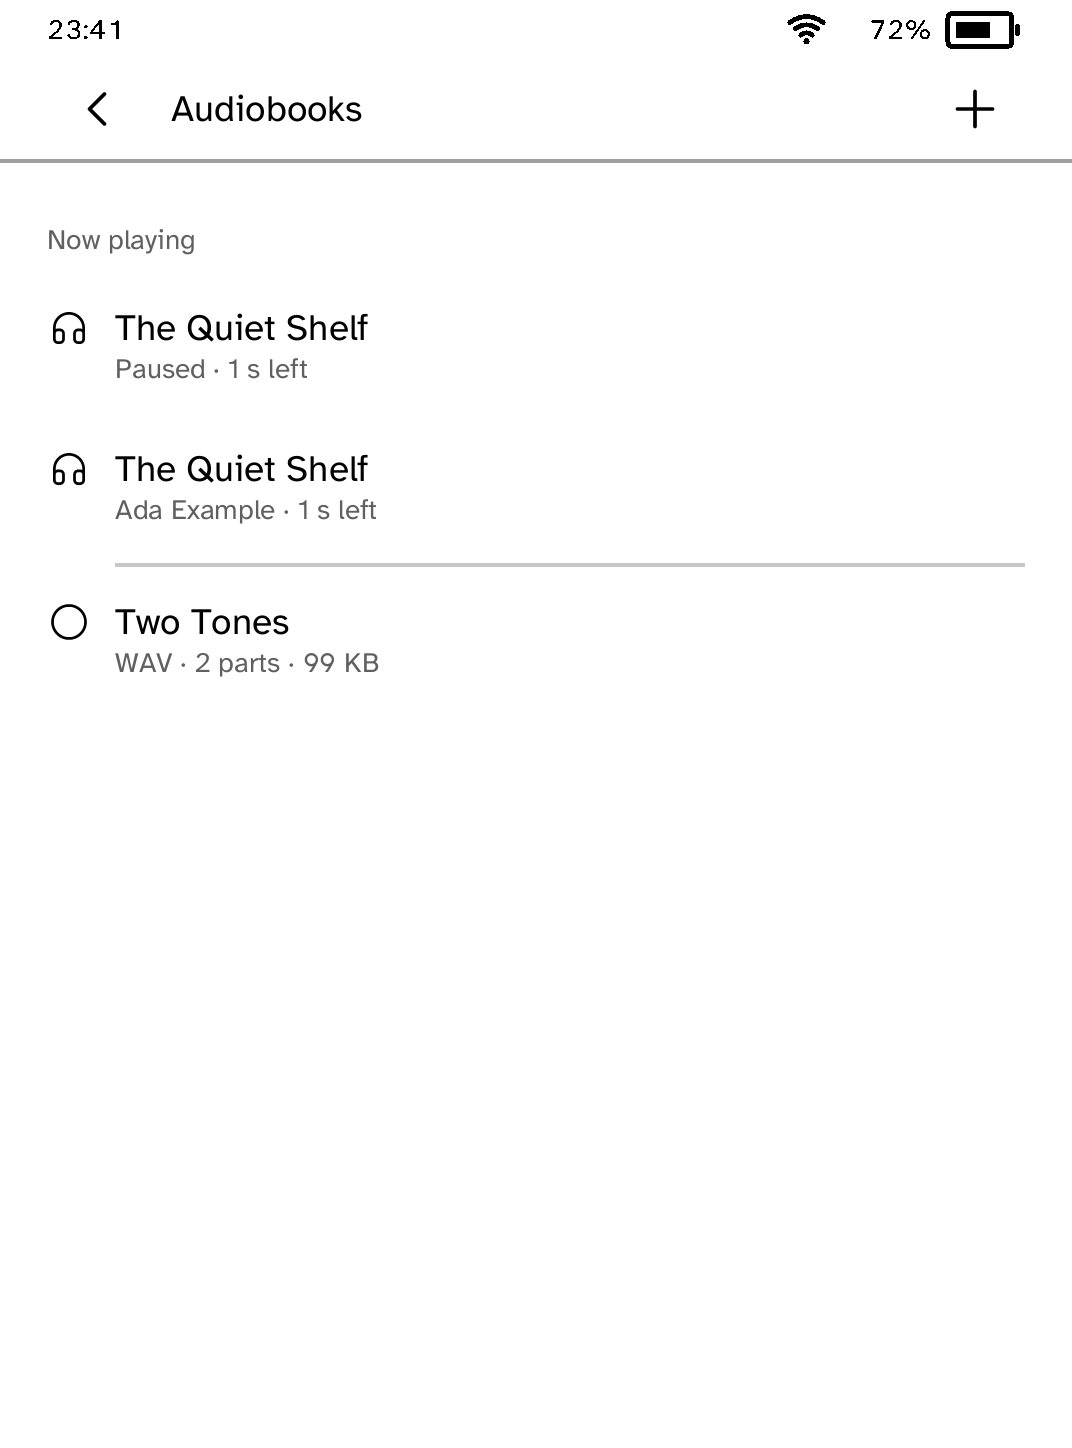
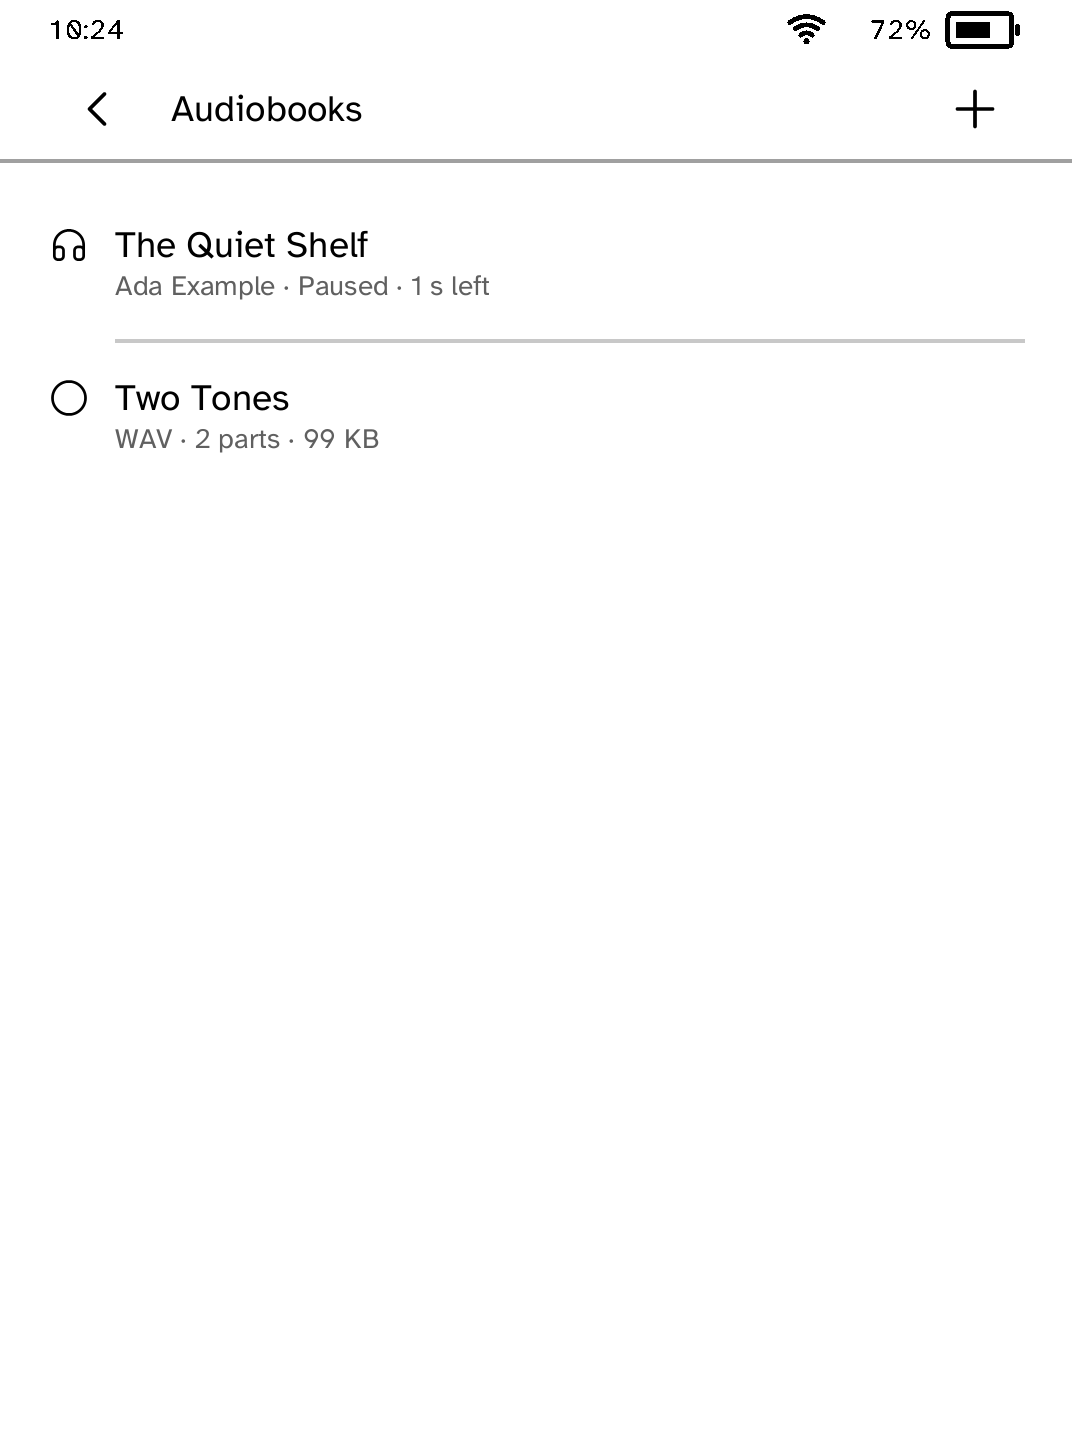
List the audiobook playing once and label books made here as MP3
The library listed the book playing twice, once under Now playing and
once as a file nobody had opened, and called a book made here MP3Z after
the archive it is stored in. The book's own row now says it is playing
and leads back to the player, with Now playing kept for the pages that
do not list it. A book made here also has its title alone on its cover,
where the byline had room for "Made on this..." and no more.

diff --git a/docs/apps/audiobook/index.html b/docs/apps/audiobook/index.html
@@ -21,7 +21,7 @@
 <meta name="twitter:description" content="Play the audiobooks on your Kobo, with chapters, speed, a sleep timer and your place kept. Or make one from a topic. Install it on a supported Kobo e-reader with Cobalt.">
 <meta name="twitter:image" content="https://bandarlabs.github.io/Cobalt/media/site/apps/audiobook.png">
 <meta name="twitter:image:alt" content="An audiobook player with cover art and playback controls on a Kobo">
-<meta http-equiv="Content-Security-Policy" content="default-src 'none'; script-src 'self' 'sha256-4JgS9N8kjq/qgPJBs9eM/QnN95GJO+a4B19LSWAMxfA='; style-src 'self'; img-src 'self'; connect-src https://cobalt-install-relay.anandabhishek.workers.dev; base-uri 'none'; form-action 'self'">
+<meta http-equiv="Content-Security-Policy" content="default-src 'none'; script-src 'self' 'sha256-kvGeZ6x0Y+Fhwcj/QHiLfqnpRWNsIbpJahjou+aeAeo='; style-src 'self'; img-src 'self'; connect-src https://cobalt-install-relay.anandabhishek.workers.dev; base-uri 'none'; form-action 'self'">
 <script type="application/ld+json">{
   "@context": "https://schema.org",
   "@graph": [
@@ -40,7 +40,7 @@
       "applicationSuite": "Cobalt",
       "applicationCategory": "MultimediaApplication",
       "operatingSystem": "Cobalt on supported Kobo e-readers",
-      "softwareVersion": "2.0.0",
+      "softwareVersion": "2.0.1",
       "isAccessibleForFree": true,
       "offers": {
         "@type": "Offer",
@@ -99,7 +99,7 @@
       <h1>Audiobooks</h1>
       <p class="summary">Play the audiobooks on your Kobo, with chapters, speed, a sleep timer and your place kept. Or make one from a topic.</p>
       <dl class="facts">
-        <div><dt>Version</dt><dd>2.0.0</dd></div>
+        <div><dt>Version</dt><dd>2.0.1</dd></div>
         <div><dt>Permissions</dt><dd>network, audio, bluetooth-audio, bluetooth-control</dd></div>
         <div><dt>Requires</dt><dd>Cobalt 0.3.33</dd></div>
       </dl>
@@ -117,8 +117,8 @@
     </div>
   </section>
   <section class="whats-new">
-    <h2>New in 2.0.0</h2>
-    <p>Plays the audiobooks on the reader: MP3, M4B, M4A, OGG, Opus, FLAC and WAV, and a folder of numbered files as one book. Cover, author and chapters, speed from half to three times, a sleep timer, and your place kept in every book.</p>
+    <h2>New in 2.0.1</h2>
+    <p>The book playing is listed once, and a book made here is labelled MP3 and has its title alone on its cover.</p>
   </section>
   <section class="panel prerequisites" aria-labelledby="prerequisites-title">
     <p class="eyebrow">App setup</p>

diff --git a/examples/audiobook/src/main.rs b/examples/audiobook/src/main.rs
@@ -473,10 +473,29 @@ impl Audiobook {
         // composer is the one action the top bar allows.
         let placed = self.library_head(screen.top_bar_glyph(NEW, "Create", Glyph::Plus));
         let showing = self.pages.get(self.page).map_or(&[][..], Vec::as_slice);
+        let playing = self.playing_shown();
         let rows = showing
             .iter()
             .filter_map(|index| books.get(*index).map(|book| (*index, book)))
             .map(|(index, book)| {
+                if playing == Some(index) {
+                    if let Some(status) = self.player_status() {
+                        let status = match self
+                            .place_of(&book.id)
+                            .map(|place| place.author.as_str())
+                            .filter(|author| !author.is_empty())
+                        {
+                            Some(author) => format!("{author} · {status}"),
+                            None => status,
+                        };
+                        return (
+                            NOW_PLAYING.to_owned(),
+                            self.title_of(book),
+                            status,
+                            RowLead::from(Glyph::Headphones),
+                        );
+                    }
+                }
                 let place = self.place_of(&book.id);
                 (
                     play_action(index),
@@ -511,28 +530,50 @@ impl Audiobook {
                 "Only the first two thousand audiobooks are listed.",
             );
         }
-        if let Some(player) = self.player.as_ref() {
-            let title = self.playing_title();
-            let left = player
-                .duration()
-                .saturating_sub(player.position())
-                .as_millis();
-            let left = span(u32::try_from(left).unwrap_or(u32::MAX));
-            let status = if player.is_playing() {
-                format!("Playing · {left} left")
-            } else if player.is_finished() {
-                "Finished".to_owned()
-            } else {
-                format!("Paused · {left} left")
-            };
-            screen = screen.section("Now playing").rows([(
-                NOW_PLAYING,
-                title,
-                status,
-                RowLead::from(Glyph::Headphones),
-            )]);
+        // The book playing has a row of its own on the page that lists it.
+        // Above that page it was listed twice, once playing and once as a
+        // file not yet opened.
+        if self.playing_shown().is_none() {
+            if let Some(status) = self.player_status() {
+                screen = screen.section("Now playing").rows([(
+                    NOW_PLAYING,
+                    self.playing_title(),
+                    status,
+                    RowLead::from(Glyph::Headphones),
+                )]);
+            }
         }
         screen
+    }
+
+    /// Where the player is in the book playing, as its row says it.
+    fn player_status(&self) -> Option<String> {
+        let player = self.player.as_ref()?;
+        let left = player
+            .duration()
+            .saturating_sub(player.position())
+            .as_millis();
+        let left = span(u32::try_from(left).unwrap_or(u32::MAX));
+        Some(if player.is_playing() {
+            format!("Playing · {left} left")
+        } else if player.is_finished() {
+            "Finished".to_owned()
+        } else {
+            format!("Paused · {left} left")
+        })
+    }
+
+    /// The library index of the book playing, when the page showing lists
+    /// it.
+    fn playing_shown(&self) -> Option<usize> {
+        self.player.as_ref()?;
+        let playing = self.playing.as_deref()?;
+        let books = self.library.as_ref()?;
+        self.pages.get(self.page)?.iter().copied().find(|index| {
+            books
+                .get(*index)
+                .is_some_and(|book| same_book(&book.id, playing))
+        })
     }
 
     /// What the book playing is called, by the same rules as its row: the
@@ -811,12 +852,10 @@ impl Audiobook {
             PictureHandle(1),
             COVER_WIDTH,
             COVER_HEIGHT,
-            typographic_cover(
-                &title,
-                Some("Made on this reader"),
-                COVER_WIDTH,
-                COVER_HEIGHT,
-            ),
+            // The title alone. The line beside the cover already says where
+            // the book was made, and a byline set at cover size had room for
+            // "Made on this..." and no more.
+            typographic_cover(&title, None, COVER_WIDTH, COVER_HEIGHT),
         ));
         let id = format!("shelf:{}", self.archive_name);
         self.open_player(context, player, id);
@@ -1914,13 +1953,15 @@ fn language_action(language: pipeline::Language) -> String {
 /// The short name of a listed kind, as the wire numbers them.
 const fn kind_badge(kind: u8) -> &'static str {
     match kind {
-        1 => "MP3",
         2 => "M4B",
         3 => "OGG",
         4 => "OPUS",
         5 => "FLAC",
         6 => "WAV",
-        _ => "MP3Z",
+        // A book made here is kept as its MP3 parts in one archive. The
+        // archive is how it is stored, not what anybody listens to, so it
+        // is named for the parts inside.
+        _ => "MP3",
     }
 }
 

diff --git a/examples/audiobook/src/tests.rs b/examples/audiobook/src/tests.rs
@@ -165,7 +165,7 @@ fn a_book_is_named_by_what_it_said_then_the_index_then_its_file() {
     assert_eq!(app.title_of(&books[0]), "The Moon");
     assert_eq!(app.title_of(&books[1]), "stray-recording");
     assert_eq!(app.title_of(&books[2]), "Dune, by Frank Herbert");
-    assert_eq!(Audiobook::status_of(&books[0], None), "MP3Z · 3 MB");
+    assert_eq!(Audiobook::status_of(&books[0], None), "MP3 · 3 MB");
     assert_eq!(
         Audiobook::status_of(&books[2], app.place_of("0/Audiobooks/Dune")),
         "Frank Herbert · MP3 · 42 parts · 4.6 GB"
@@ -318,10 +318,38 @@ fn a_book_opens_where_it_was_left_and_keeps_playing_behind_the_library() {
     assert!(app.player.is_some());
     assert!(app.topic.is_empty());
     let drawn = format!("{:?}", app.screen(&context));
-    assert!(drawn.contains("Now playing"), "{drawn}");
-    assert!(drawn.contains("\"Night\""), "{drawn}");
+    assert_eq!(drawn.matches("\"Night\"").count(), 1, "{drawn}");
+    assert!(drawn.contains(" left"), "{drawn}");
     app.on_action(&mut context, action_id(NOW_PLAYING));
     assert_eq!(app.stage, Stage::Player);
+}
+
+/// The book playing is listed once: on the page that lists it, its own row
+/// says it is playing and leads back to the player, and the "Now playing"
+/// row above is kept for the pages that do not list it.
+#[test]
+fn the_book_playing_is_listed_once() {
+    let runner = kobo_sdk::AppRunner::new(Audiobook::default());
+    let mut context = runner.context();
+    let mut app = Audiobook::default();
+    app.listed(
+        &context,
+        &[
+            entry("0/Audiobooks/night.m4b", "night", 2, 1, 10),
+            entry("0/Audiobooks/day.m4b", "day", 2, 1, 10),
+        ],
+        false,
+    );
+    app.play(&mut context, 0);
+    app.on_action(&mut context, kobo_sdk::ActionId::BACK);
+    let screen = app.screen(&context);
+    let drawn = format!("{screen:?}");
+    assert_eq!(drawn.matches("\"night\"").count(), 1, "{drawn}");
+    assert!(!drawn.contains("Now playing"), "{drawn}");
+    assert!(
+        drawn.contains(&format!("{:?}", action_id(NOW_PLAYING))),
+        "the playing row leads back to the player"
+    );
 }
 
 /// A book made here, playing off the shelf, is named in the library's
